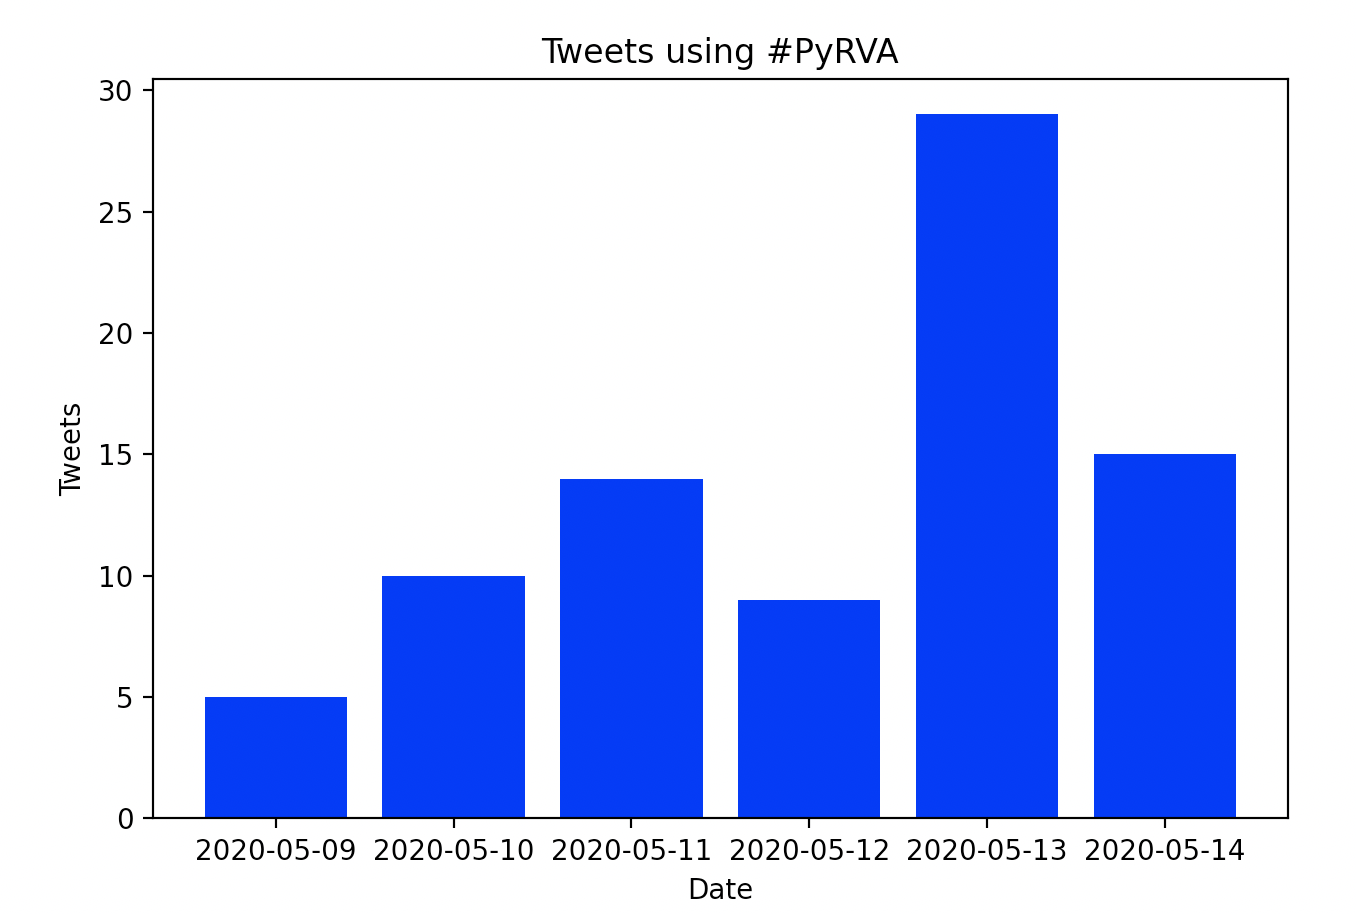
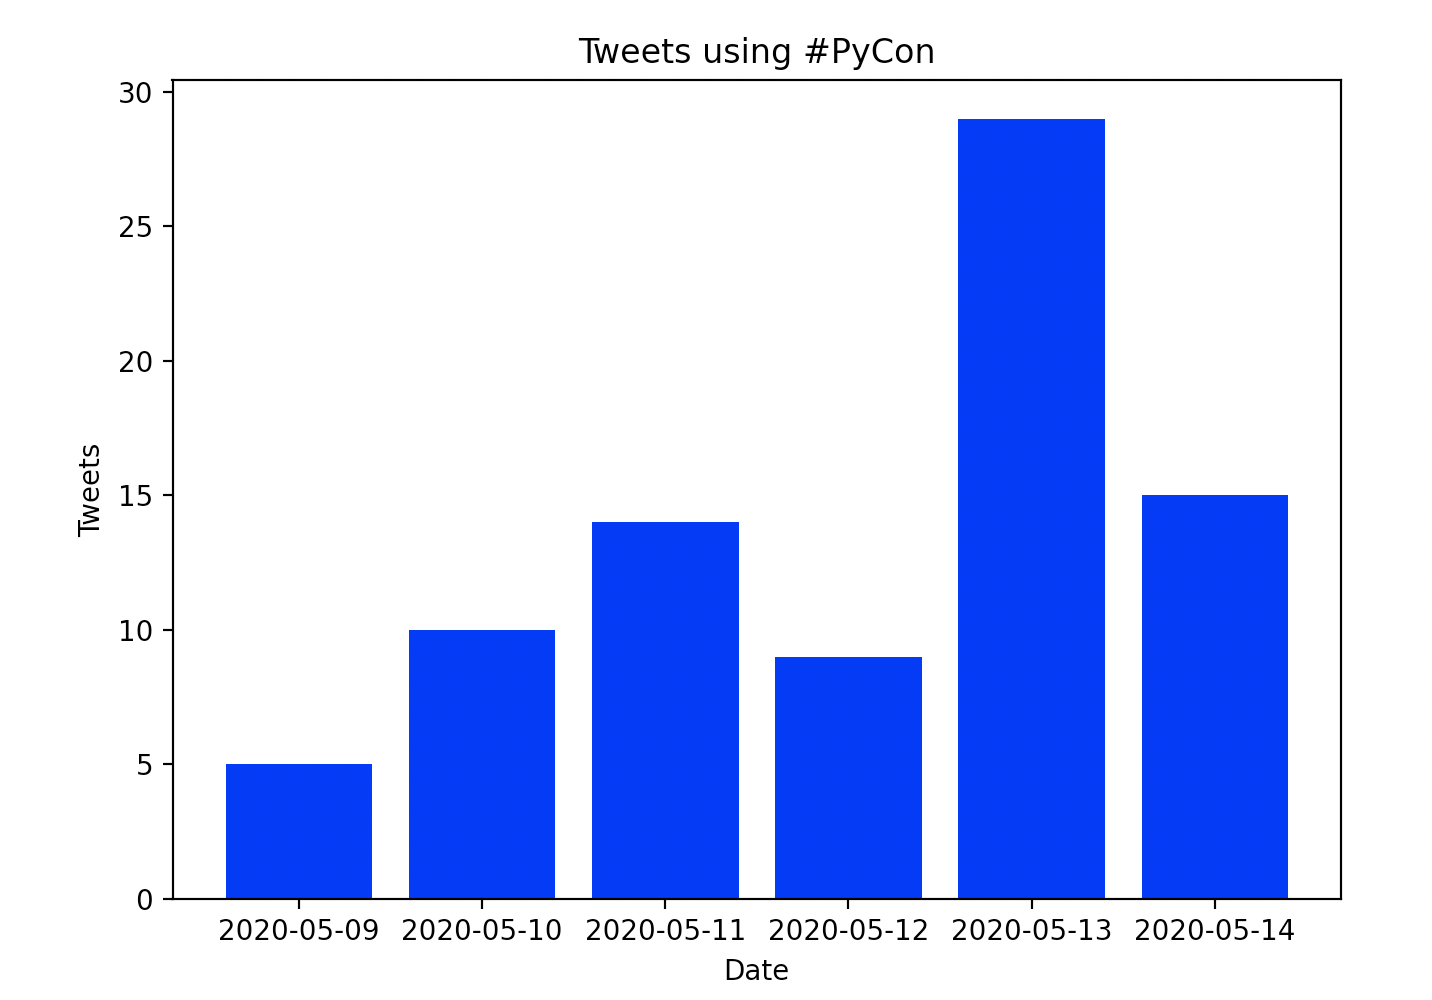
+stephen slides w/ pictures

Changed region(s): [[0.031, 0.0306, 0.9602, 1.0], [0.4956, 0.5208, 0.5265, 0.5514]]

diff --git a/src/pyrva_talk/graph/basic_graph.py b/src/pyrva_talk/graph/basic_graph.py
@@ -5,6 +5,7 @@ import matplotlib
 import matplotlib.pyplot as plt
 from pathlib import Path
 
+from pyrva_talk.twitter.api import get_tweets
 
 def main():
     data = get_data()
@@ -23,9 +24,20 @@ def get_data():
     return lines
 
 
+def get_twitter_data():
+    """ Get data from twitter instead """
+    tweets = get_tweets('#PyCon', start_date='2020-07-01')
+    rows = [
+        {'date': tweet.created_at.strftime('%x'), 'tweet':tweet.full_text} 
+        for tweet in tweets
+    ]
+    return rows
+
+
 def process_data(data):
     """ bin data into day & tweet count """
     labels = list(set(row["date"] for row in data))
+    labels.sort()
     values = []
     for label in labels:
         count = sum(1 for row in data if row["date"] == label)
@@ -38,7 +50,7 @@ def draw_barchart(labels, values):
     plt.bar(labels, values, color="blue")
     plt.xlabel("Date")
     plt.ylabel("Tweets")
-    plt.title("Tweets using #PyRVA")
+    plt.title("Tweets using #PyCon")
     plt.show()
 
 

diff --git a/src/pyrva_talk/twitter/api.py b/src/pyrva_talk/twitter/api.py
@@ -26,7 +26,7 @@ def get_recent_mentions(user=py_rva, n=5):
     return tweets
 
 
-@st.cache
+
 def get_tweets(query=py_rva, start_date=None):
     """ Return tweets for ``query`` (since datetime ``since``)"""
 

diff --git a/slides.podium/slides.md b/slides.podium/slides.md
@@ -165,18 +165,25 @@ Talk about the UI here
 
 ---
 
+# Building a bar chart with...
+
+![matplotlib](matplotlib_logo.svg)
+### Visualization with Python
+
+---
+
 class: class
 
 # Save Twitter data (by hand)
 
-Say we wanted to use python to visualize how many tweets a day are using a certain hashtag.
+Say we wanted to use python to visualize how many tweets a day are using the #PyCon hashtag.
 
 We can visit twitter and copy all the tweets we find, along with the day they were tweeted and save to a file that looks like this:
 
 ```
-2020-05-09,Wow #PyRVA is super cool!
-2020-05-09,Wow #PyRVA is super duper cool!
-2020-05-10,Wow #PyRVA is super awesome!
+2020-05-09,Wow #PyCon is super cool!
+2020-05-09,Wow #PyCon is super duper cool!
+2020-05-10,Wow #PyCon is super awesome!
 ```
 
 This type of file is known as a csv (or comma-separated values) file, and python comes with a library for working with them: `csv`
@@ -240,7 +247,7 @@ def draw_barchart(labels, values):
     plt.bar(labels, values, color="blue")
     plt.xlabel("Date")
     plt.ylabel("Tweets")
-    plt.title("Tweets using #PyRVA")
+    plt.title("Tweets using #PyCon")
     plt.show()
 ```
 
@@ -248,7 +255,7 @@ def draw_barchart(labels, values):
 
 class: screenshot
 
-# ...and here is our chart
+# ...and here is our chart!
 
 ![image](tweets-over-time.png)
 
@@ -256,13 +263,13 @@ class: screenshot
 
 class: title
 
-# Fetching Twitter data automatically
+# Scaling up- getting data automatically
 
 Fetching a tweets for a small hashtag over a short period of time is pretty straightforward, but doesn't scale well.
 
-Let's automate the process by getting data directly from Twitter's API.
+Let's automate our data collection with another python library:
 
-To do so, we'll use a python library that wraps Twitter's API: [`tweepy`](https://pypi.org/project/tweepy/)
+![tweepy](tweepy_logo.png)
 
 ---
 
@@ -304,6 +311,31 @@ def get_tweets(query, start_date=None):
     tweets = list(chain.from_iterable(tweet_cursor.pages()))
     return tweets
 ```
+
+---
+
+# Putting it all together
+
+Now that we just need to update our chart's data function:
+
+``` python
+def get_data():
+    """ Get Tweet data from Twitter """
+    tweets = get_tweets('#PyCon', start_date='2020-07-01')
+    rows = [
+        {'date': tweet.created_at, 'tweet':tweet.full_text} 
+        for tweet in tweets
+    ]
+    return rows
+```
+
+---
+
+class: screenshot
+
+# ...and here's the chart (automatically generated!)
+
+![tweet_chart](auto-tweets-over-time.png)
 
 ---
 class: title
